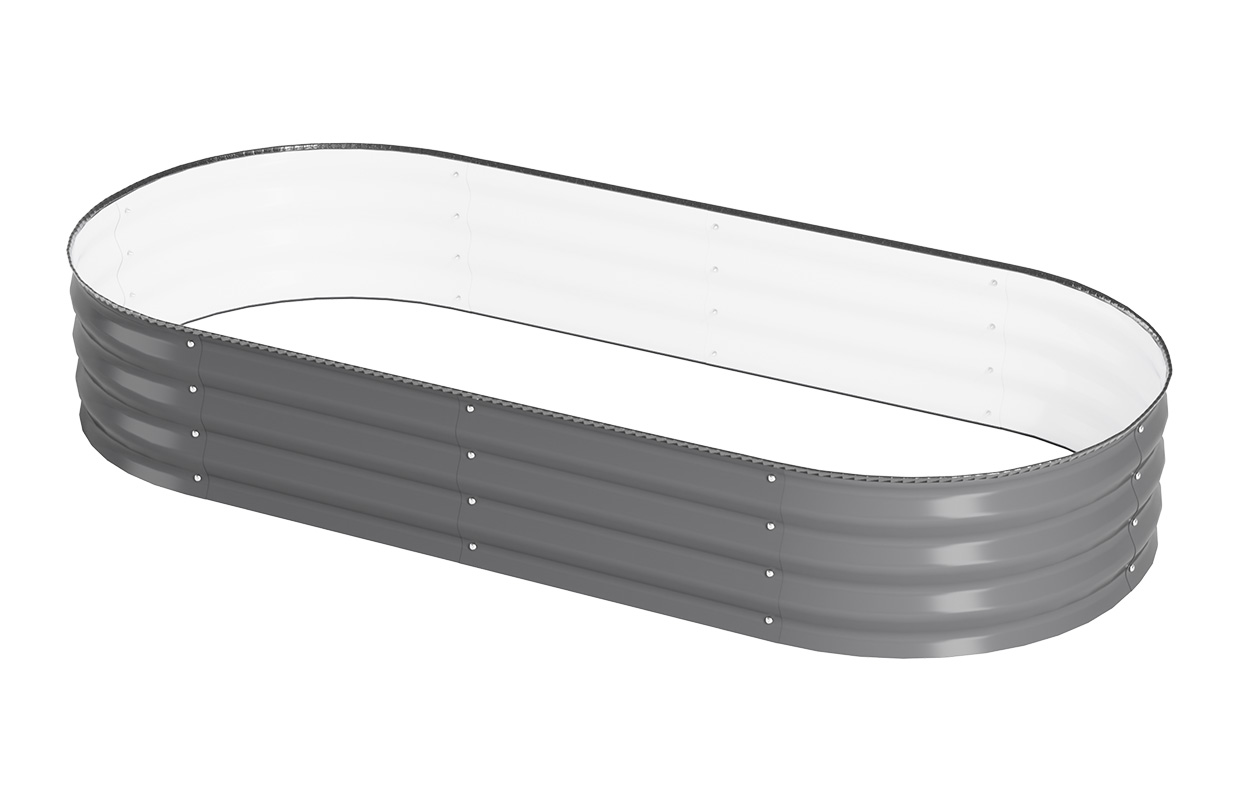
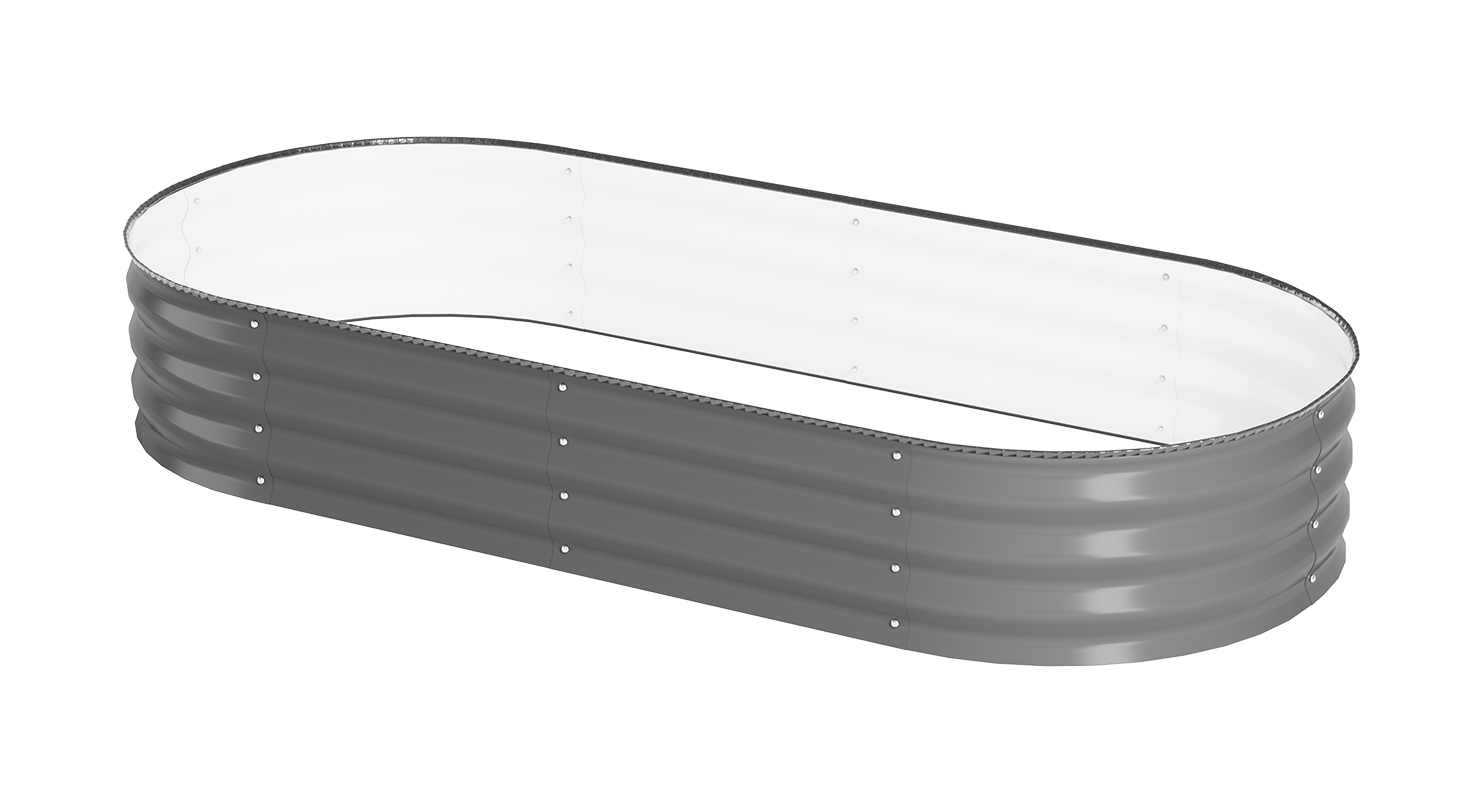
Publish product: Raised Garden Bed GCF01FC-P4C4Y-H30

diff --git a/data/productLines/raisedGardenBeds.ts b/data/productLines/raisedGardenBeds.ts
@@ -966,133 +966,6 @@ export const raisedGardenBedProducts: ProductItem[] = [
     ],
   },
 {
-    slug: "raised-garden-bed-gcf01fc-p4c4y-h30",
-    title: "Raised Garden Bed GCF01FC-P4C4Y-H30",
-    category: "Raised Garden Bed",
-    template: "standard",
-    subtitle: "GCF01FC-P4C4Y-H30 for outdoor projects and wholesale supply.",
-    description: "An oval corrugated metal raised garden bed designed for outdoor flower, herb, and vegetable planting. The rounded corner design and galvanized steel panels provide a clean garden layout with durable outdoor performance, suitable for backyard gardens, patios, courtyards, and landscaping projects.",
-    image: "/images/products/raised-garden-bed/raised-garden-bed-gcf01fc-p4c4y-h30/product-card/card.jpg",
-    gallery: [
-      "/images/products/raised-garden-bed/raised-garden-bed-gcf01fc-p4c4y-h30/detail-carousel/01-gcf01fc-p4c4y-h30-1600x1000-1.jpg",
-      "/images/products/raised-garden-bed/raised-garden-bed-gcf01fc-p4c4y-h30/detail-carousel/02-gcf01fc-p4c4y-h30-1600x1000-2.jpg",
-      "/images/products/raised-garden-bed/raised-garden-bed-gcf01fc-p4c4y-h30/detail-carousel/03-gcf01fc-p4c4y-h30-1600x1000-3.jpg",
-      "/images/products/raised-garden-bed/raised-garden-bed-gcf01fc-p4c4y-h30/detail-carousel/04-gcf01fc-p4c4y-h30-1600x1000-4.jpg",
-    ],
-    highlights: [
-      "Galvanized Steel",
-      "120 x 60 x 30 cm",
-      "carton",
-      "OEM & ODM support",
-    ],
-    applications: [
-      "Backyard & Garden",
-      "Residential",
-      "Public & Landscape",
-    ],
-    materials: [
-      "Galvanized Steel",
-    ],
-    customization: [
-      "Custom Size",
-      "Custom Color",
-      "Packaging",
-    ],
-    oemSupport: [
-      "Private Label",
-      "Packaging",
-    ],
-    cardModel: "GCF01FC-P4C4Y-H30",
-    cardSize: "120 x 60 x 30 cm",
-    cardCbm: "0.2288 m³",
-    moq: "100",
-    grossWeight: "15",
-    netWeight: "14",
-    packing: "carton",
-    status: "published",
-    productDescription: [
-      [
-        "Item Number",
-        "GCF01FC-P4C4Y-H30",
-      ],
-      [
-        "Product Name",
-        "Raised Garden Bed GCF01FC-P4C4Y-H30",
-      ],
-      [
-        "Material",
-        "Galvanized Steel",
-      ],
-      [
-        "Overall Size",
-        "120 x 60 x 30 cm or Customized",
-      ],
-      [
-        "Color",
-        "Customized",
-      ],
-      [
-        "Packing",
-        "carton",
-      ],
-      [
-        "MOQ",
-        "100",
-      ],
-      [
-        "Gross Weight",
-        "15 kg",
-      ],
-      [
-        "Net Weight",
-        "14 kg",
-      ],
-      [
-        "CBM",
-        "0.2288 m³",
-      ],
-    ],
-    faqs: [
-      [
-        "Can I customize the size?",
-        "Yes. Send us your required length, width, height or technical drawing, and we can prepare a custom raised garden bed plan.",
-      ],
-      [
-        "Can I choose the color and panel style?",
-        "Yes. Color, panel style, panel height and surface finish can be selected according to your market needs.",
-      ],
-      [
-        "Do you support OEM packaging?",
-        "Yes. We can support neutral packing, branded labels, instruction sheets, cartons and retail packaging for bulk orders.",
-      ],
-      [
-        "What information is needed for quotation?",
-        "Please provide size, quantity, destination country, material preference, finish color and any reference image or drawing.",
-      ],
-      [
-        "Can you supply for project orders?",
-        "Yes. We support retail, residential and landscape project supply with production coordination, packing and export delivery.",
-      ],
-    ],
-    relatedProducts: [
-      {
-        title: "Raised Garden Bed-GAF00FD-P6C4J-H43",
-        image: "/images/products/raised-garden-bed/raised-garden-bed-gaf00fd-p6c4j-h43/product-card/card.jpg",
-        slug: "raised-garden-bed-gaf00fd-p6c4j-h43",
-      },
-      {
-        title: "Raised Garden Bed GAF00FD-P4C4J-H43",
-        image: "/images/products/raised-garden-bed/raised-garden-bed-gaf00fd-p4c4j-h43/product-card/card.jpg",
-        slug: "raised-garden-bed-gaf00fd-p4c4j-h43",
-      },
-      {
-        title: "Raised Garden Bed FGM-P8C8D-H82",
-        image: "/images/products/raised-garden-bed/raised-garden-bed-fgm-p8c8d-h82/product-card/card.jpg",
-        slug: "raised-garden-bed-fgm-p8c8d-h82",
-      },
-    ],
-  },
-{
     slug: "raised-garden-bed-gcf01fc-p4c4y-h45",
     title: "Raised Garden Bed GCF01FC-P4C4Y-H45",
     category: "Raised Garden Bed",
@@ -1850,6 +1723,133 @@ export const raisedGardenBedProducts: ProductItem[] = [
         title: "Hexagonal Corrugated Metal Raised Garden Bed GCF01FC-P5R5D-H30",
         image: "/images/products/raised-garden-bed/hexagonal-corrugated-metal-raised-garden-bed-gcf01fc-p5r5d-h30/product-card/card.jpg",
         slug: "hexagonal-corrugated-metal-raised-garden-bed-gcf01fc-p5r5d-h30",
+      },
+    ],
+  },
+{
+    slug: "raised-garden-bed-gcf01fc-p4c4y-h30",
+    title: "Raised Garden Bed GCF01FC-P4C4Y-H30",
+    category: "Raised Garden Bed",
+    template: "standard",
+    subtitle: "GCF01FC-P4C4Y-H30 for outdoor projects and wholesale supply.",
+    description: "Factory direct raised garden bed solution for home gardens, retail channels and landscape projects, with options for size, color, panel style, carton packing and private label support.",
+    image: "/images/products/raised-garden-bed/raised-garden-bed-gcf01fc-p4c4y-h30/product-card/card.jpg",
+    gallery: [
+      "/images/products/raised-garden-bed/raised-garden-bed-gcf01fc-p4c4y-h30/detail-carousel/01-gcf01fc-p4c4y-h30-1600x1000-1.jpg",
+      "/images/products/raised-garden-bed/raised-garden-bed-gcf01fc-p4c4y-h30/detail-carousel/02-gcf01fc-p4c4y-h30-1600x1000-2.jpg",
+      "/images/products/raised-garden-bed/raised-garden-bed-gcf01fc-p4c4y-h30/detail-carousel/03-gcf01fc-p4c4y-h30-1600x1000-3.jpg",
+      "/images/products/raised-garden-bed/raised-garden-bed-gcf01fc-p4c4y-h30/detail-carousel/04-gcf01fc-p4c4y-h30-1600x1000-4.jpg",
+    ],
+    highlights: [
+      "Galvanized Steel",
+      "1200 x 90 x 30 cm",
+      "Carton",
+      "OEM & ODM support",
+    ],
+    applications: [
+      "Backyard & Garden",
+      "Residential",
+      "Public & Landscape",
+    ],
+    materials: [
+      "Galvanized Steel",
+    ],
+    customization: [
+      "Custom Size",
+      "Custom Color",
+      "Packaging",
+    ],
+    oemSupport: [
+      "Private Label",
+      "Packaging",
+    ],
+    cardModel: "GCF01FC-P4C4Y-H30",
+    cardSize: "1200 x 90 x 30 cm",
+    cardCbm: "0.0289 m³",
+    moq: "100",
+    grossWeight: "7.5",
+    netWeight: "6.5",
+    packing: "Carton",
+    status: "published",
+    productDescription: [
+      [
+        "Item Number",
+        "GCF01FC-P4C4Y-H30",
+      ],
+      [
+        "Product Name",
+        "Raised Garden Bed GCF01FC-P4C4Y-H30",
+      ],
+      [
+        "Material",
+        "Galvanized Steel",
+      ],
+      [
+        "Overall Size",
+        "1200 x 90 x 30 cm or Customized",
+      ],
+      [
+        "Color",
+        "Customized",
+      ],
+      [
+        "Packing",
+        "Carton",
+      ],
+      [
+        "MOQ",
+        "100",
+      ],
+      [
+        "Gross Weight",
+        "7.5 kg",
+      ],
+      [
+        "Net Weight",
+        "6.5 kg",
+      ],
+      [
+        "CBM",
+        "0.0289 m³",
+      ],
+    ],
+    faqs: [
+      [
+        "Can I customize the size?",
+        "Yes. Send us your required length, width, height or technical drawing, and we can prepare a custom raised garden bed plan.",
+      ],
+      [
+        "Can I choose the color and panel style?",
+        "Yes. Color, panel style, panel height and surface finish can be selected according to your market needs.",
+      ],
+      [
+        "Do you support OEM packaging?",
+        "Yes. We can support neutral packing, branded labels, instruction sheets, cartons and retail packaging for bulk orders.",
+      ],
+      [
+        "What information is needed for quotation?",
+        "Please provide size, quantity, destination country, material preference, finish color and any reference image or drawing.",
+      ],
+      [
+        "Can you supply for project orders?",
+        "Yes. We support retail, residential and landscape project supply with production coordination, packing and export delivery.",
+      ],
+    ],
+    relatedProducts: [
+      {
+        title: "U-Shaped Corrugated Metal Raised Garden Bed GCF01FC-P16C6R2U-H30",
+        image: "/images/products/raised-garden-bed/u-shaped-corrugated-metal-raised-garden-bed-gcf01fc-p16c6r2u-h30/product-card/card.jpg",
+        slug: "u-shaped-corrugated-metal-raised-garden-bed-gcf01fc-p16c6r2u-h30",
+      },
+      {
+        title: "Multi-Zone Corrugated Metal Raised Garden Bed GCF01FC-P12C8M2-H54",
+        image: "/images/products/raised-garden-bed/multi-zone-corrugated-metal-raised-garden-bed-gcf01fc-p12c8m2-h54/product-card/card.jpg",
+        slug: "multi-zone-corrugated-metal-raised-garden-bed-gcf01fc-p12c8m2-h54",
+      },
+      {
+        title: "Raised Garden Bed GCF01FC-P4C4Y-H45",
+        image: "/images/products/raised-garden-bed/raised-garden-bed-gcf01fc-p4c4y-h45/product-card/card.jpg",
+        slug: "raised-garden-bed-gcf01fc-p4c4y-h45",
       },
     ],
   },
